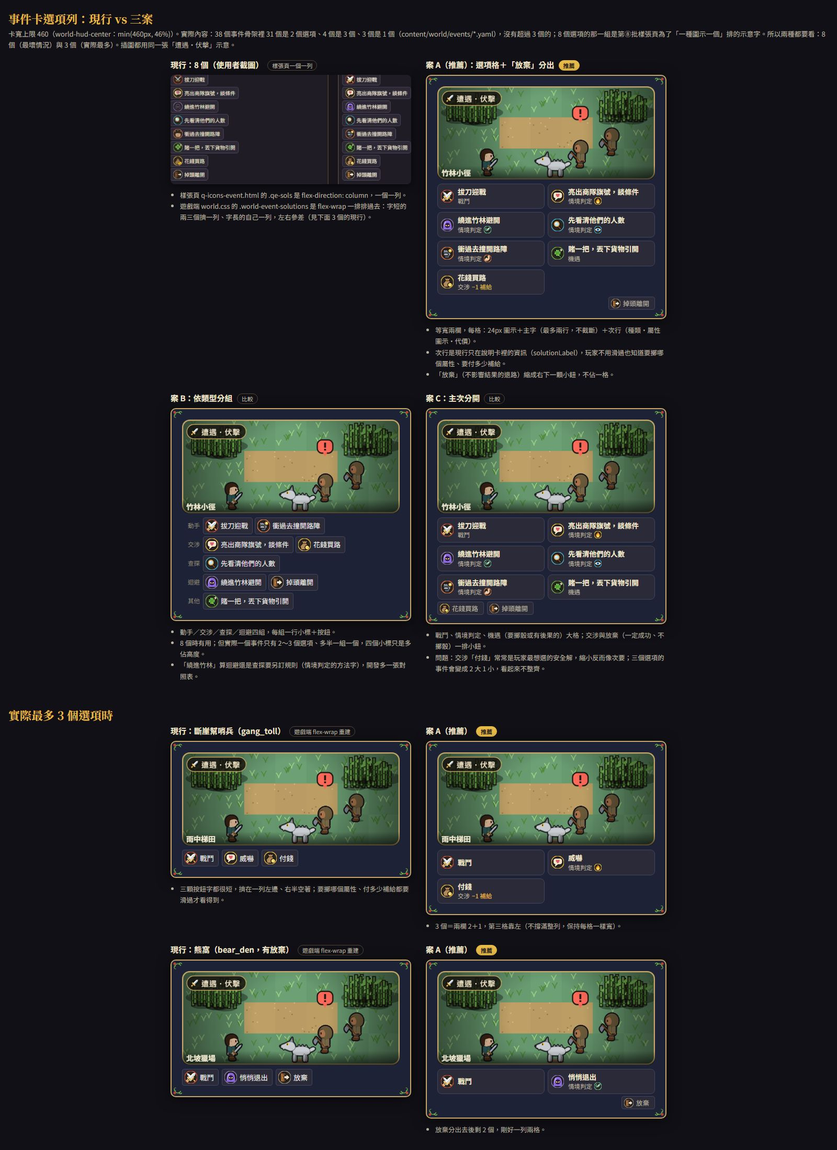
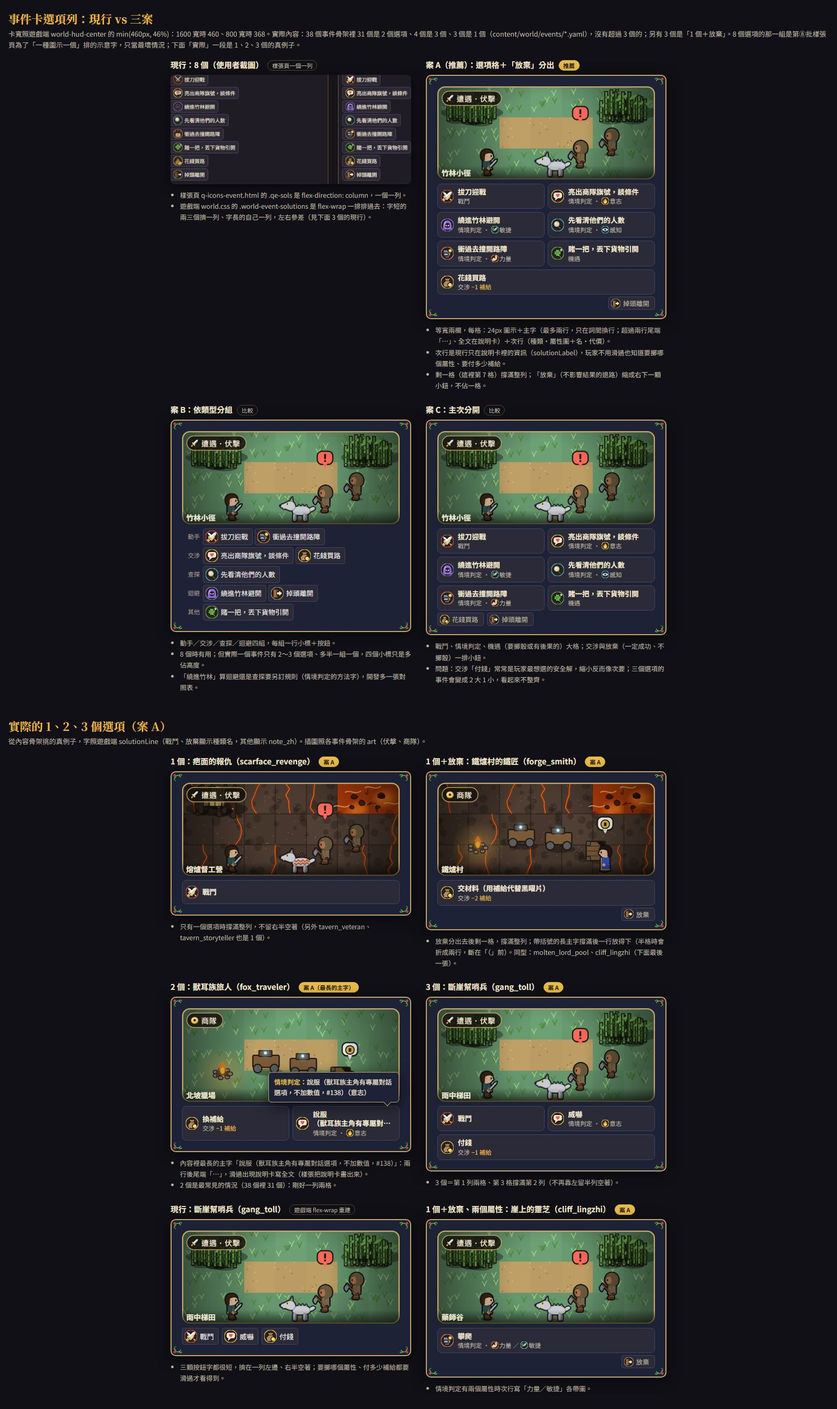
docs(art): info panel v2 - event card at game width, single-tile rule, real 1/2/3 option cases
Card width follows min(460px, 46%) (368 at 800 wide); option names clamp to
two lines with word-level breaks and the full text in the hint card; a lone
last tile spans the row; sub line shows attribute icon plus name. Also
carries the shared v2 panel changes (L3 color, bounty columns, timeline
icons, party back button) that the next shots use.

diff --git a/docs/art/sample/infoPanels.js b/docs/art/sample/infoPanels.js
@@ -14,6 +14,12 @@ window.IP = (() => {
   const hud = (id, px) => { const c = QH.canvas(id, px, 1, { frame: "none" }); c.className = "ip-ico"; return c; };
   /** 事件卡圖示（第⑧批，深底圓＋色環）。 */
   const ev = (id, px) => { const c = QE.canvas(id, px, 1); c.className = "ip-ico"; return c; };
+  /** 事件卡圖示的圖樣本身（不畫深底圓與色環）：標頭、時間點釘、清單列用；px＝圖樣邊長。第 2 版（審查必修 3、可修 4、9）。 */
+  function evBare(id, px) {
+    const res = 2, c = blank(px * res); c.style.width = c.style.height = px + "px"; c.className = "ip-ico";
+    const x = c.getContext("2d"), e = QE.ICON[id], size = e.grp === "badge" ? px : px / (e.fill ?? 0.84);
+    QIconsWeapons.blit(x, QE.glyph(id, size, res), 0, 0, px, res); return c;
+  }
   /** 部件圖樣（第④批）不帶圓片：px 是整格邊長，圖樣本身＝px × 0.75（QIconsParts.BOX）。 */
   function part(cat, id, px) {
     const res = 2, c = blank(px * res); c.style.width = c.style.height = px + "px"; c.className = "ip-ico";
@@ -30,16 +36,24 @@ window.IP = (() => {
     rank: (px = 16) => hud("rank", px),
     grow: (px = 18) => hud("bar_G", px),
     book: (px = 16) => hud("bar_K", px),
+    /* 第 2 版（審查必修 3）：時間軸「劇情技能」釘改用第⑧批「說書人」（攤開的書＋羽毛筆）的圖樣，和封印的紫色晶石分開剪影 */
+    story: (px = 16) => evBare("narrator", px),
     scroll: (px = 20) => hud("bar_J", px),
     shadow: (px = 18) => hud("bar_Y", px),
     map: (px = 18) => hud("bar_M", px),
     town: (px = 14) => hud("town", px),
-    fog: (px = 16) => hud("fog", px),
+    /* 第 2 版（美術 PM 決定）：霧潮入侵的霧（HUD fog 在 13～18px 像「≡」）換題材，用事件所在區域「雲嶺」的雙峰紋章，和熔岩潰堤用荒原火焰紋章同一個邏輯 */
+    ridge: (px = 16) => hud("c_cloud_ridge", px),
     fire: (px = 16) => hud("c_ashen_waste", px),
     crystal: (px = 16) => hud("r_source", px),
     hourglass: (px = 16) => hud("t_telegraph", px),
-    thread: (px = 16) => ev("thread", px),
+    /* 第 2 版（審查可修 9）：線軸改用不帶深底圓的圖樣本身、放大到 18～20（16px 帶環時圖樣只剩 13px，是一團紅橘） */
+    thread: (px = 18) => evBare("thread", px),
     combat: (px = 24) => ev("combat", px),
+    /* 第 2 版（審查可修 4）：懸賞標頭的雙劍去掉紅色粗環，只留圖樣，和其他 18px 標頭圖示同大同重 */
+    swords: (px = 18) => evBare("combat", px),
+    campfire: (px = 18) => evBare("b_rest", px),
+    flag: (px = 18) => hud("t_orders", px),
     clue: (px = 16) => ev("clue", px),
     narrator: (px = 16) => ev("narrator", px),
   };
@@ -75,9 +89,9 @@ window.IP = (() => {
     phases: [[1, 3, "霧中裂痕", "主線第 1～2 章、雲嶺；世界事件「霧潮入侵」"], [4, 7, "灰燼之心", "灰燼荒原、懸賞；世界事件「熔岩潰堤」"], [8, 10, "封印", "封印鑰匙集滿即解鎖頭目（最早第 8 天、第 10 天強制）"], [11, 13, "頭目競賽", "首殺者得獎金；第 13 天截止影子循環賽報名"], [14, 14, "季末", "無人首殺時舉行影子循環賽"]],
     // milestones（season.yaml）：天、名稱、圖示
     marks: [[2, "主線第 1 章的劇情技能", ["book"]], [6, "主線第 2 章的劇情技能", ["book"]], [8, "賽季頭目最早解鎖", ["lock"]], [10, "賽季頭目強制解鎖；主線第 3 章的劇情技能", ["lock", "book"]], [13, "影子循環賽截止報名", ["shadow"]], [14, "影子循環賽", ["shadow"]]],
-    events: [[1, 3, "霧潮入侵", "fog", 1], [4, 7, "熔岩潰堤", "fire", 1], [7, 10, "封印共鳴", "crystal", 2]],
+    events: [[1, 3, "霧潮入侵", "ridge", 1], [4, 7, "熔岩潰堤", "fire", 1], [7, 10, "封印共鳴", "crystal", 2]],
   };
-  const MARK_ICON = { book: () => ICON.book(15), lock: () => ICON.lock(16), shadow: () => ICON.shadow(15) };
+  const MARK_ICON = { book: () => ICON.story(16), lock: () => ICON.lock(16), shadow: () => ICON.shadow(15) };
 
   function timeline(opt = {}) {
     const S = SEASON, kids = [];
@@ -108,15 +122,16 @@ window.IP = (() => {
     const S = SEASON, now = S.phases.find((p) => p[0] <= S.day && S.day <= p[1]), nextMark = S.marks.find((m) => m[0] > S.day);
     const goals = [["完成新手任務 2 步", 0, 2], ["發現 1 個隱藏地點", 0, 1], ["打倒 1 隻精英", 0, 1]];
     const bounties = [["北坡狼王", "北坡獵場", 5, 3, "懸賞中"], ["霧中劍客", "劍冢", 5, 3, "懸賞中"], ["斷崖幫二當家「疤面」", "斷崖幫寨", 4, 3, "懸賞中"]];
-    const colsB = "28px minmax(0, 1fr) 64px 46px 70px";
     const el = panel("ip-board",
       head("公告板"),
       h("div.ip-speaker", {}, portraitOf("seal_keeper", 48), h("div.ip-bubble", {}, h("span.who", {}, "守印人"), "封印和懸賞的消息，都貼在板上了。")),
 
       sec(ICON.hourglass(18), "賽季時程", { right: [ICON.clock(16), S.refresh] },
+        /* 第 2 版（審查可修 8）：兩欄格子——左欄大字「第 1 天」，右欄第 1 行階段標籤、第 2 行說明（同一條左緣）；第 1 行兩欄對齊基線 */
         h("div.ip-season-top", {},
           h("span.ip-dayno", {}, "第", h("b", {}, String(S.day)), "天", h("span", { style: "color:var(--ip-l3)" }, `／共 ${S.days} 天`)),
-          h("div.ip-phase-now", {}, h("span.nm", {}, tag("open", now[2]), `第 ${now[0]}～${now[1]} 天`), h("span.ip-l2", {}, now[3]))),
+          h("span.ip-phase-nm", {}, tag("open", now[2]), `第 ${now[0]}～${now[1]} 天`),
+          h("span.ip-l2.ip-phase-desc", {}, now[3])),
         timeline(opt),
         h("div.ip-next", {}, h("span.k", {}, "下一個"), tag("", `第 ${nextMark[0]} 天`), h("b", {}, nextMark[1]), h("span.ip-l3", {}, newText("（明天）"))),
         fold(h("span", {}, h("b", {}, "完整日程"), `（${S.marks.length} 個時間點、${S.phases.length} 個階段）`), null, !!opt.openSched,
@@ -125,15 +140,16 @@ window.IP = (() => {
       sec(ICON.clue(18), "今日目標", { meta: tag("info", "新手期：教學目標"), right: [newText("完成一條"), ICON.token(15), h("b", { style: "color:var(--ip-num)" }, "+1")] },
         h("div.ip-rows", {}, goals.map(([t, n, d]) => h("div.ip-row.ip-goal", {}, h("span.ip-check", { class: n >= d ? "done" : null }), h("span.text", {}, t), prog(n, d))))),
 
-      sec(ICON.combat(20), "懸賞板", { meta: newText("先搶先贏"), right: [ICON.clock(15), "每天 06:00 換一批", tip("先打倒的人拿走當天的懸賞（每天 06:00 刷新）。", { open: opt.openBountyTip, place: "below", right: true })] },
-        h("div.ip-cols-head", { style: `grid-template-columns:${colsB}` }, h("span"), h("span", {}, "目標・地點"), h("span", {}, "建議等級"), h("span", {}, "獎勵"), h("span", { style: "text-align:right" }, "狀態")),
-        h("div.ip-rows", {}, bounties.map(([n, where, lv, coins, st]) => h("div.ip-row.ip-bounty", { style: `grid-template-columns:${colsB}` },
+      sec(ICON.swords(18), "懸賞板", { meta: newText("先搶先贏"), right: [ICON.clock(15), "每天 06:00 換一批", tip("先打倒的人拿走當天的懸賞（每天 06:00 刷新）。", { open: opt.openBountyTip, place: "below", right: true })] },
+        /* 第 2 版（審查可修 5）：欄寬只寫在 CSS 的 .ip-bounty-cols（欄名列與每列共用），窄版媒體查詢才蓋得掉；可修 2：等級一行「Lv 5」 */
+        h("div.ip-cols-head.ip-bounty-cols", {}, h("span"), h("span", {}, "目標・地點"), h("span", {}, "建議等級"), h("span.reward-h", {}, "獎勵"), h("span", { style: "text-align:right" }, "狀態")),
+        h("div.ip-rows", {}, bounties.map(([n, where, lv, coins, st]) => h("div.ip-row.ip-bounty.ip-bounty-cols", {},
           ICON.combat(24), h("span.stack", {}, h("span.name", {}, n), h("span.where", {}, ICON.town(14), where)),
-          h("span.lv", {}, "Lv", h("b", {}, String(lv))), h("span.reward", {}, ICON.token(15), String(coins)), h("span.state", {}, tag("open", st)))))),
+          h("span.lv", {}, "Lv ", h("b", {}, String(lv))), h("span.reward", {}, ICON.token(15), String(coins)), h("span.state", {}, tag("open", st)))))),
 
       sec(ICON.map(18), "世界事件", { meta: newText("全服一起推進") },
         h("div.ip-event", {},
-          h("div.ip-event-head", {}, ICON.fog(18), h("span.name", {}, "霧潮入侵"), tag("", "第 1～3 天"), h("span.end", {}, tag("live", "進行中"))),
+          h("div.ip-event-head", {}, ICON.ridge(18), h("span.name", {}, "霧潮入侵"), tag("", "第 1～3 天"), h("span.end", {}, tag("live", "進行中"))),
           h("div.ip-l2", {}, "全服在雲嶺的霧中打贏戰鬥；成功則開放灰燼荒原"),
           h("div.ip-bar", {}, h("span.ip-bar-track", {}, h("i", { style: "width:0%" })), h("span.ip-bar-num", {}, h("b", {}, "0"), "／30"),
             tip(h("span", {}, h("b", {}, "門檻"), "：沒有前一天的上線紀錄，用原門檻"), { open: opt.openEventTip, place: "above", right: true }))),
@@ -163,7 +179,8 @@ window.IP = (() => {
       h("div.ip-locks", {}, h("div.ip-locks-head", {}, ICON.lock(18), newText("入門期還沒開放")),
         h("ul", {}, [["閃現", "到 4 級"], ["溶掉、傳承", "4 級起"], ["立誓", "找葛蘭正式選定後"]].map(([a, b]) => h("li", {}, h("b", {}, a), h("span", {}, newText(b)))))),
 
-      sec(null, "外觀與種族", {},
+      /* 第 2 版（審查可修 3）：沒有圖示的區塊標頭補圖——外觀與種族＝主角頭像（QPortrait，和 HUD 主角卡同一種畫法） */
+      sec(heroPortrait(20), "外觀與種族", {},
         h("div.ip-rows", {},
           h("div.ip-row.ip-set", {}, h("span.lbl", {}, h("span.ip-l1", {}, "外觀")), h("span.ctl", {}, tag("lock", ICON.lock(14), "只有在主城能改外觀"), h("button", { type: "button", disabled: true }, "改外觀"))),
           h("div.ip-row.ip-set", {}, h("span.lbl", {}, h("span.ip-l1", {}, "種族"), h("span.ip-l3", {}, "本季可以免費換一次")),
@@ -172,7 +189,8 @@ window.IP = (() => {
       sec(ICON.up(18), "屬性點", { right: tag("dim", "升級時每級 +2") },
         h("div.ip-empty", {}, "沒有未分配的屬性點。")),
 
-      sec(ICON.bulb(18), "靈感閃現", { right: chip(ICON.bulb(15), "靈感點", 3) },
+      /* 第 2 版（審查可修 9）：靈感點只留標頭的籌碼，這裡不再重複 */
+      sec(ICON.bulb(18), "靈感閃現", {},
         h("div.ip-rule-chips", {},
           h("span.ip-rule", {}, ICON.bulb(14), h("b", {}, "1 點"), "4 個變化選 1"),
           h("span.ip-rule", {}, ICON.bulb(14), h("b", {}, "+1 點"), "指定類別、該類 3 選 1"),
@@ -182,7 +200,7 @@ window.IP = (() => {
           OB.skillIcon(id, 32), h("span", {}, h("span.name", {}, n), h("span.ip-l3", { style: "display:block" }, c)),
           tag("lock", ICON.lock(14), newText("到 4 級")), h("button", { type: "button", disabled: true }, "閃現"))))),
 
-      sec(null, "重閃、溶掉與傳承、誓約", { meta: "只在城鎮與營火" },
+      sec(ICON.campfire(18), "重閃、溶掉與傳承、誓約", { meta: "只在城鎮與營火" }, /* 營火（第⑧批事件插圖小牌的營火）＝只在城鎮與營火做的整備 */
         fold(h("span", {}, h("b", {}, "重閃"), "　把以前的一次變化換掉"), tag("dim", newText("還沒有可以重閃的技能")), false),
         fold(h("span", {}, h("b", {}, "溶掉或傳承"), "　二選一，舊技能會消失"), tag("lock", ICON.lock(14), "4 級起"), false),
         fold(h("span", {}, h("b", {}, "誓約"), "　同時 1 個，一直有效到自己解除"), tag("lock", ICON.lock(14), newText("正式選定後")), false)));
@@ -202,7 +220,7 @@ window.IP = (() => {
           h("span.ip-route", {}, ICON.map(18), "往北邊的出口 → 竹林小徑"),
           h("ol.ip-steps", {}, steps.map(([st, place, what], i) => h("li", { class: st }, h("span.ip-dot", {}, st === "done" ? "✓" : st === "todo" ? String(i + 1) : null), h("span.place", {}, newText(place)), h("span.what", {}, what)))))),
       sec(ICON.thread(18), "線頭", { right: tip("事件的結果會留下線頭（每人約 5 條，約 3 天到期）。", {}) },
-        h("div.ip-rows", {}, [["商人欠你人情", "2 天 23 小時"], ["狼群是被趕下山的", "2 天 23 小時"]].map(([t, left]) => h("div.ip-row.ip-thread", {}, ICON.thread(16), h("span.name", {}, t),
+        h("div.ip-rows", {}, [["商人欠你人情", "2 天 23 小時"], ["狼群是被趕下山的", "2 天 23 小時"]].map(([t, left]) => h("div.ip-row.ip-thread", {}, ICON.thread(18), h("span.name", {}, t),
           h("span.end", {}, tag("", "個人"), tag("", ICON.clock(14), newText(left))))))));
   }
 
@@ -210,10 +228,10 @@ window.IP = (() => {
   // 隊伍／我的影子（PartyPanel.tsx；src/trpg/api/world_party_view.py、world/opening.py）
   // =====================================================================
   function partyProposal() {
-    const member = (cls, face, name, lv, role, ai, extra) => h("div.ip-member", { class: cls }, face, h("div.info", {}, h("span.nm", {}, name, h("span.lvl", {}, `${lv} 級`), extra), h("span.role", {}, role), ai ? h("span.ai", {}, "打法 ", h("b", {}, ai)) : null));
+    const member = (cls, face, name, lv, role, ai, extra) => h("div.ip-member", { class: cls }, face, h("div.info", {}, h("span.nm", {}, name, h("span.lvl", {}, `Lv ${lv}`), extra), h("span.role", {}, role), ai ? h("span.ai", {}, "打法 ", h("b", {}, ai)) : null));
     return panel("ip-party",
-      head("隊伍", { back: false }),
-      sec(null, "隊友", { first: true, meta: chip(null, "", "3／3"), right: [newText("主角＋最多 2 名")] },
+      head("隊伍"), /* 第 2 版（審查必修 4、美術 PM 決定）：四個面板右上一致放「回到地點圖」「×」 */
+      sec(ICON.flag(18), "隊友", { first: true, meta: chip(null, "", "3／3"), right: [newText("主角＋最多 2 名")] },
         h("div.ip-members", {},
           member("hero", heroPortrait(44), "AA", 2, "主角"),
           member("", portraitOf("merc_tiebi", 44), "賽倫", 2, "盾衛・守護", "預設（守衛）"),
@@ -240,17 +258,48 @@ window.IP = (() => {
   const OPT_TOLL = [["combat", "戰鬥", "combat", "戰鬥"], ["persuade", "威嚇", "situation", "情境判定", "wil"], ["trade", "付錢", "parley", "交涉", null, 1]];
   /** bear_den：戰鬥／悄悄退出（情境判定）／放棄。 */
   const OPT_BEAR = [["combat", "戰鬥", "combat", "戰鬥"], ["sneak", "悄悄退出", "situation", "情境判定", "dex"], ["leave", "放棄", "abandon", "放棄"]];
+  /* 第 2 版（審查必修 2）：實際的 1、2、3 個選項各挑一個真的骨架（content/world/events/*.yaml；字照 solutionLine：戰鬥、放棄顯示 kind_zh，其他顯示 note_zh）。 */
+  /** 1 個：scarface_revenge（灰燼荒原・熔爐督工營，疤面的報仇）：只有戰鬥。 */
+  const OPT_SCAR = [["combat", "戰鬥", "combat", "戰鬥"]];
+  /** 1 個＋放棄：forge_smith（鐵爐村的鐵匠）：交材料（付 2 補給）／放棄。 */
+  const OPT_FORGE = [["trade", "交材料（用補給代替黑曜片）", "parley", "交涉", null, 2], ["leave", "放棄", "abandon", "放棄"]];
+  /** 2 個：fox_traveler（北坡獵場，獸耳族旅人）：換補給（付 1 補給）／說服（意志）；第二個是內容裡最長的主字，用來畫截斷。 */
+  const OPT_FOX = [["trade", "換補給", "parley", "交涉", null, 1], ["persuade", "說服（獸耳族主角有專屬對話選項，不加數值，#138）", "situation", "情境判定", "wil"]];
+  /** 1 個＋放棄、兩個屬性：cliff_lingzhi（藥師谷，崖上的靈芝）：攀爬（力量／敏捷）／放棄。 */
+  const OPT_CLIFF = [["force", "攀爬", "situation", "情境判定", ["str", "dex"]], ["leave", "放棄", "abandon", "放棄"]];
+  const ATTR_ZH = { str: "力量", dex: "敏捷", con: "體質", int: "智力", wis: "感知", wil: "意志" };
   const GROUP = { combat: "動手", force: "動手", persuade: "交涉", trade: "交涉", investigate: "查探", sneak: "迴避", chance: "其他", leave: "迴避" };
 
   /** 現行：flex-wrap 的一排按鈕（world-event-solutions），按鈕＝24px 圖示＋字。 */
   const solBtn = ([icon, text], cls = "") => h("button.world-solution", { type: "button", class: cls || null }, ev(icon, 24), h("span.world-solution-line", {}, text));
   const solCurrent = (opts) => h("div.world-event-solutions", {}, opts.map((o) => h("span.world-solution-group", {}, solBtn(o))));
-  /** 選項格（案 A／推薦）：等寬兩欄，圖示＋主字（最多兩行）＋次行（種類・屬性或代價）。 */
-  const sub = ([, , , kz, attr, cost]) => h("span.s", {}, kz, attr ? ev(attr, 14) : null, cost ? h("span.cost", {}, `−${cost} 補給`) : null);
-  const tile = (o, opt = {}) => h("button.ip-sol", { type: "button", class: opt.cls || null }, ev(o[0], opt.px ?? 24), h("span.t", {}, h("span.m", {}, o[1]), opt.noSub || o[1] === o[3] ? null : sub(o)));
+  /** 選項格（案 A／推薦）：等寬兩欄，圖示＋主字（最多兩行）＋次行（種類・屬性或代價）。
+   第 2 版（審查可修 6）：次行的屬性寫「圖＋名」（意志的火焰單看會讀成火屬性）；兩個屬性時用「／」分開。 */
+  const sub = ([, , , kz, attr, cost]) => {
+    const attrs = attr ? (Array.isArray(attr) ? attr : [attr]) : [];
+    return h("span.s", {}, kz, attrs.length ? h("span.sep", {}, "・") : null,
+      attrs.flatMap((a, i) => [i ? h("span.sep", {}, "／") : null, h("span.attr", {}, ev(a, 14), ATTR_ZH[a])]), cost ? h("span.cost", {}, `−${cost} 補給`) : null);
+  };
+  /** 主字的斷行（第 2 版，審查必修 1）：用 Intl.Segmenter 把字切成詞，詞與詞之間插 <wbr>，CSS 用 word-break: keep-all——只在詞間或標點後換行，不會斷成「談／條件」。
+   遊戲端可以照搬（Chrome、Edge、Safari、Firefox 都有 Intl.Segmenter）；最多兩行，超過的第二行尾端「…」，全文在說明卡（title 與 Hint）。 */
+  const SEG = typeof Intl !== "undefined" && Intl.Segmenter ? new Intl.Segmenter("zh-Hant", { granularity: "word" }) : null;
+  /* 有標點（，、（）時不插斷點：keep-all 本來就只在標點後換行（「亮出商隊旗號，／談條件」）；沒有標點的才在詞間插 <wbr>，
+     單字的詞（「談」「丟」這類動詞）併進下一個詞，免得斷成「談／條件」。一個詞比一行還長時 overflow-wrap: anywhere 才任意斷。 */
+  const PUNCT = /[，、；：（）「」。！？]/;
+  function wordBreaks(text) {
+    if (!SEG || PUNCT.test(text)) return [text];
+    const words = [];
+    let carry = "";
+    for (const { segment } of SEG.segment(text)) { if ([...segment].length === 1) carry += segment; else { words.push(carry + segment); carry = ""; } }
+    if (carry) words.length ? (words[words.length - 1] += carry) : words.push(carry);
+    return words.flatMap((w, i) => (i ? [h("wbr"), w] : [w]));
+  }
+  const tile = (o, opt = {}) => h("button.ip-sol", { type: "button", class: opt.cls || null, title: o[1] }, ev(o[0], opt.px ?? 24),
+    h("span.t", {}, h("span.m", {}, wordBreaks(o[1])), opt.noSub || o[1] === o[3] ? null : sub(o)), opt.tip ? h("div.ip-tipcard.above.right-edge", { style: "right:0;max-width:250px" }, h("b", {}, `${o[3]}：`), o[1], o[4] ? `（${[].concat(o[4]).map((a) => ATTR_ZH[a]).join("／")}）` : "") : null);
+  /** 第 2 版（審查必修 2）：剩一格（1 個選項，或 3 個時的第 3 格）撐滿整列——CSS 的 .ip-sol:last-child:nth-child(odd)，不用另外判斷。opt.tipAt：把第 N 格的說明卡畫出來。 */
   function solGrid(opts, opt = {}) {
     const main = opt.splitLeave ? opts.filter((o) => o[2] !== "abandon") : opts, leave = opt.splitLeave ? opts.filter((o) => o[2] === "abandon") : [];
-    return h("div.ip-sols-wrap", {}, h("div.ip-sol-grid", { class: main.length === 1 ? "one" : null }, main.map((o) => tile(o))),
+    return h("div.ip-sols-wrap", {}, h("div.ip-sol-grid", {}, main.map((o, i) => tile(o, { tip: opt.tipAt === i }))),
       leave.length ? h("div.ip-sol-foot", {}, leave.map(([icon, text]) => h("button.ip-sol-leave", { type: "button" }, ev(icon, 18), text))) : null);
   }
   /** 案 B：依類型分組（動手／交涉／查探／迴避），每組一行小標＋一排按鈕。 */
@@ -265,5 +314,5 @@ window.IP = (() => {
     return h("div.ip-sols-wrap", {}, h("div.ip-sol-grid", {}, big.map((o) => tile(o))), small.length ? h("div.ip-sol-small", {}, small.map(([icon, text]) => h("button.ip-sol-leave", { type: "button" }, ev(icon, 18), text))) : null);
   }
 
-  return { ICON, hud, ev, part, portraitOf, heroPortrait, newText, chip, tag, tip, callout, sec, head, panel, fold, prog, timeline, boardProposal, growthProposal, questsProposal, partyProposal, OPT8, OPT_TOLL, OPT_BEAR, solCurrent, solGrid, solGroups, solPrimary, tile };
+  return { ICON, hud, ev, part, portraitOf, heroPortrait, newText, chip, tag, tip, callout, sec, head, panel, fold, prog, timeline, boardProposal, growthProposal, questsProposal, partyProposal, OPT8, OPT_TOLL, OPT_BEAR, OPT_SCAR, OPT_FORGE, OPT_FOX, OPT_CLIFF, solCurrent, solGrid, solGroups, solPrimary, tile };
 })();

diff --git a/docs/art/sample/infoPanels.css b/docs/art/sample/infoPanels.css
@@ -8,7 +8,7 @@ body.ip-shot { background: #101016; color: var(--ui-text); }
   /* 三級文字：主（L1）＝名字、數字、狀態；次（L2）＝一句說明、地點；註（L3）＝規則、例外（多半收進說明卡） */
   --ip-l1: var(--ui-text);
   --ip-l2: #bdb5a2;
-  --ip-l3: #8e8878;
+  --ip-l3: #a39d8c; /* 第 2 版（審查可修 1）：原 #8e8878 在面板底對比 4.44、淡底列上 4.0；改後淡底列上約 5.0 */
   --ip-num: var(--ui-gold-hi);
   --ip-row: rgb(255 255 255 / 4%);
   --ip-row-hi: rgb(255 255 255 / 7%);
@@ -143,11 +143,11 @@ body.ip-shot { background: #101016; color: var(--ui-text); }
 .ip-mini { width: 44px; height: 5px; border-radius: 3px; background: var(--ui-well); overflow: hidden; }
 .ip-mini > i { display: block; height: 100%; background: #7fb07a; }
 
-/* 懸賞板：圖示｜名字＋地點｜建議等級｜獎勵｜狀態，欄寬固定、上下對齊 */
-.ip-bounty { grid-template-columns: 28px minmax(0, 1fr) 64px 46px 70px; }
+/* 懸賞板：圖示｜名字＋地點｜建議等級｜獎勵｜狀態，欄寬固定、上下對齊。欄寬只寫在這裡（欄名列與每列共用 .ip-bounty-cols），不要寫在行內 style，窄版才蓋得掉 */
+.ip-bounty-cols { display: grid; grid-template-columns: 28px minmax(0, 1fr) 64px 46px 70px; }
 .ip-bounty .stack { display: flex; flex-direction: column; gap: 1px; min-width: 0; }
-.ip-bounty .lv { justify-self: start; font-size: 12px; color: var(--ip-l2); text-align: center; line-height: 1.25; }
-.ip-bounty .lv b { display: block; color: var(--ui-text); font-size: 15px; font-variant-numeric: tabular-nums; }
+.ip-bounty .lv { justify-self: start; font-size: 12px; color: var(--ip-l2); white-space: nowrap; }
+.ip-bounty .lv b { color: var(--ui-text); font-size: 14px; font-variant-numeric: tabular-nums; } /* 一行「Lv 5」，和成長的籌碼、隊友卡同一種寫法 */
 .ip-bounty .reward { display: flex; align-items: center; gap: 3px; font-weight: 700; color: var(--ip-num); font-variant-numeric: tabular-nums; }
 .ip-bounty .state { justify-self: end; }
 .ip-cols-head { display: grid; gap: 10px; padding: 0 10px 2px; font-size: 11px; color: var(--ip-l3); }
@@ -166,11 +166,14 @@ body.ip-shot { background: #101016; color: var(--ui-text); }
 .ip-bar-num b { color: var(--ip-num); }
 
 /* ---------- 賽季時程（時間軸） ---------- */
-.ip-season-top { display: flex; align-items: flex-end; gap: 14px; flex-wrap: wrap; margin-bottom: 8px; }
+/* 兩欄：左大字「第 1 天」；右欄第 1 行階段標籤＋天數、第 2 行說明，同一條左緣；第 1 行兩欄對齊基線 */
+.ip-season-top { display: grid; grid-template-columns: auto minmax(0, 1fr); column-gap: 16px; row-gap: 2px; align-items: baseline; margin-bottom: 8px; }
+.ip-season-top .ip-dayno { grid-column: 1; grid-row: 1; }
+.ip-phase-nm { grid-column: 2; grid-row: 1; font-size: 14px; font-weight: 700; color: var(--ui-text); display: flex; align-items: baseline; gap: 6px; }
+.ip-phase-nm .ip-tag { align-self: baseline; }
+.ip-phase-desc { grid-column: 2; grid-row: 2; }
 .ip-dayno { display: flex; align-items: baseline; gap: 4px; color: var(--ip-l2); font-size: 13px; }
 .ip-dayno b { font-family: "Noto Serif TC", "PMingLiU", serif; font-size: 30px; line-height: 1; color: var(--ui-gold-hi); }
-.ip-phase-now { display: flex; flex-direction: column; gap: 2px; min-width: 0; flex: 1 1 260px; }
-.ip-phase-now .nm { font-size: 14px; font-weight: 700; color: var(--ui-text); display: flex; align-items: center; gap: 6px; }
 
 .ip-tl { --days: 14; position: relative; display: grid; grid-template-columns: 58px repeat(var(--days), minmax(0, 1fr)); row-gap: 4px; font-size: 11.5px; }
 .ip-tl-lab { grid-column: 1; align-self: center; color: var(--ip-l3); font-size: 11px; white-space: nowrap; }
@@ -269,8 +272,8 @@ body.ip-shot { background: #101016; color: var(--ui-text); }
 @media (max-width: 600px) {
   .ip-members { grid-template-columns: minmax(0, 1fr); }
   .ip-locks ul { grid-template-columns: minmax(0, 1fr); }
-  .ip-bounty { grid-template-columns: 28px minmax(0, 1fr) 56px 70px; }
-  .ip-bounty .reward { display: none; }
+  .ip-bounty-cols { grid-template-columns: 28px minmax(0, 1fr) 56px 70px; }
+  .ip-bounty .reward, .ip-cols-head .reward-h { display: none; }
 }
 
 /* 特寫用：放大 */
@@ -281,7 +284,8 @@ body.ip-shot { background: #101016; color: var(--ui-text); }
 body.ip-plain .ip-new { text-decoration: none; }
 
 /* ---------- 事件卡選項列（?part=event） ---------- */
-.ip-evcard { width: 460px; max-width: 100%; }
+/* 第 2 版（審查必修 1）：卡寬照遊戲端 world-hud-center 的 min(460px, 46%)——1600 寬 460、800 寬 368 */
+.ip-panel.ip-evcard { width: min(460px, 46vw); max-width: 100%; }
 .ip-evcard .world-event-art { margin: 0 0 8px; }
 .ip-evcard .world-event-art canvas { display: block; border-radius: 6px; }
 .ip-evcard .world-event-solutions { margin: 4px 0; }
@@ -292,12 +296,17 @@ body.ip-plain .ip-new { text-decoration: none; }
 
 /* 選項格：等寬兩欄、圖示＋主字（最多兩行）＋次行（種類・屬性・代價） */
 .ip-sol-grid { display: grid; grid-template-columns: repeat(2, minmax(0, 1fr)); gap: 6px; margin: 6px 0 4px; }
-.ip-sol-grid.one { grid-template-columns: minmax(0, 1fr); }
-.ip-sol { display: flex; align-items: center; gap: 8px; text-align: left; padding: 6px 8px 6px 6px !important; min-height: 46px; border-radius: 8px !important; min-width: 0; }
+/* 剩一格撐滿整列（1 個選項，或 3 個時的第 3 格），不留右半空著 */
+.ip-sol-grid > .ip-sol:last-child:nth-child(odd) { grid-column: 1 / -1; }
+.ip-sol { position: relative; display: flex; align-items: center; gap: 8px; text-align: left; padding: 6px 8px 6px 6px !important; min-height: 46px; border-radius: 8px !important; min-width: 0; }
 .ip-sol > canvas { flex: none; }
 .ip-sol .t { display: flex; flex-direction: column; gap: 1px; min-width: 0; }
-.ip-sol .m { font-size: 13.5px; font-weight: 700; line-height: 1.3; color: var(--ui-text); display: -webkit-box; -webkit-line-clamp: 2; -webkit-box-orient: vertical; overflow: hidden; }
-.ip-sol .s { display: flex; align-items: center; gap: 4px; font-size: 11.5px; color: var(--ip-l2); }
+/* 主字：最多兩行，第二行尾端「…」（全文在說明卡）；只在詞間（JS 用 Intl.Segmenter 插 <wbr>）或標點後換行，詞太長才任意斷 */
+.ip-sol .m { font-size: 13.5px; font-weight: 700; line-height: 1.3; color: var(--ui-text); display: -webkit-box; -webkit-line-clamp: 2; -webkit-box-orient: vertical; overflow: hidden; word-break: keep-all; overflow-wrap: anywhere; }
+.ip-sol .s { display: flex; align-items: center; gap: 3px; font-size: 11.5px; color: var(--ip-l2); flex-wrap: wrap; }
+.ip-sol .s .attr { display: inline-flex; align-items: center; gap: 2px; }
+.ip-sol .s .sep { color: var(--ip-l3); }
+.ip-sol .ip-tipcard { font-weight: 400; }
 .ip-sol .cost { color: #e8bb48; }
 .ip-sol:hover, .ip-sol.is-hover { border-color: var(--ui-gold-hi) !important; background: #2f3450 !important; }
 .ip-sol-foot, .ip-sol-small { display: flex; justify-content: flex-end; gap: 6px; margin-top: 2px; }
